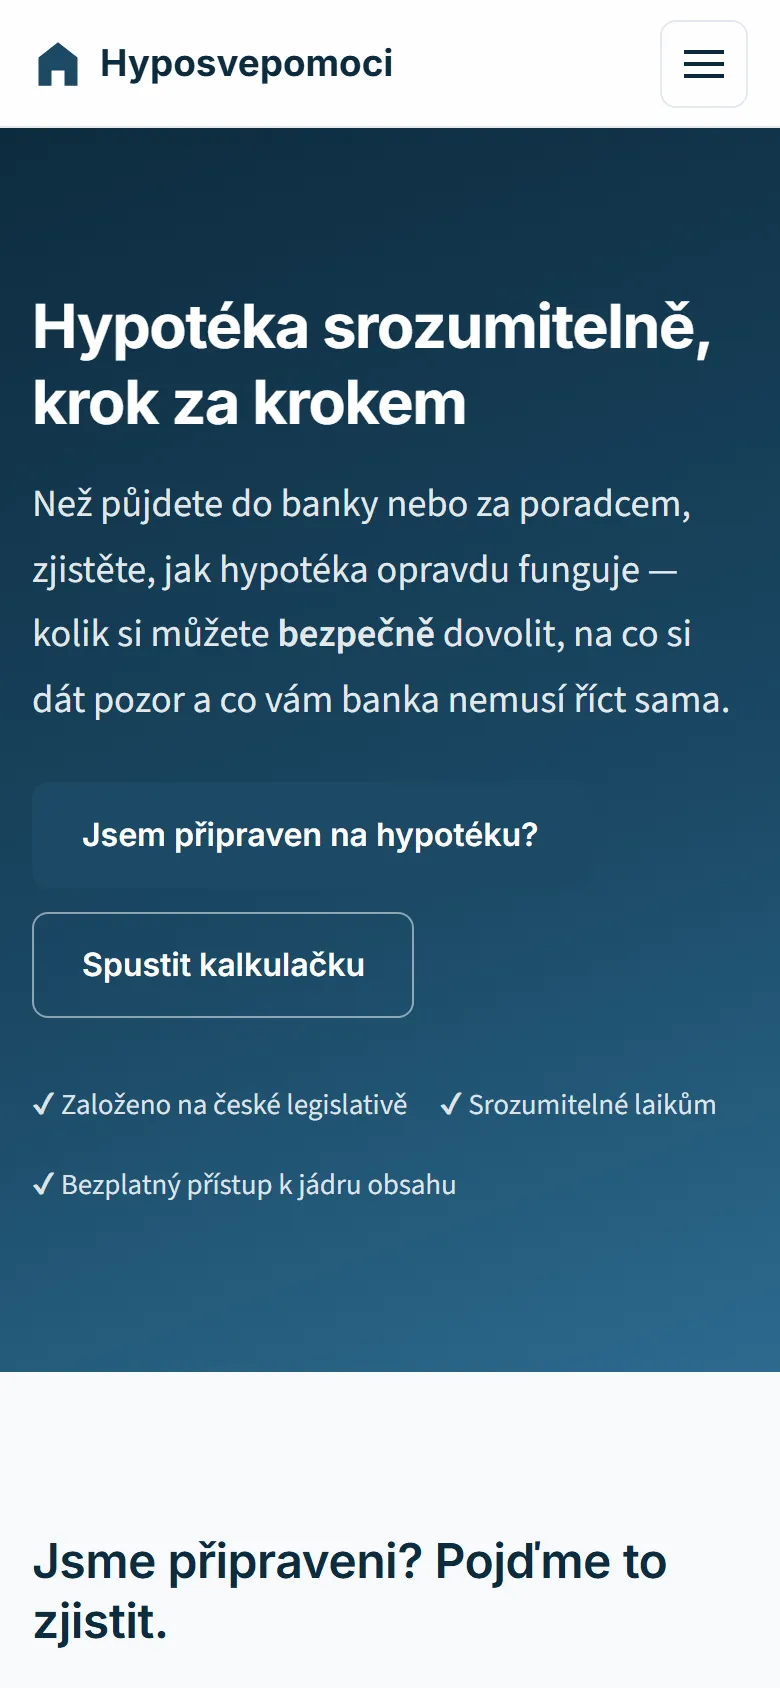
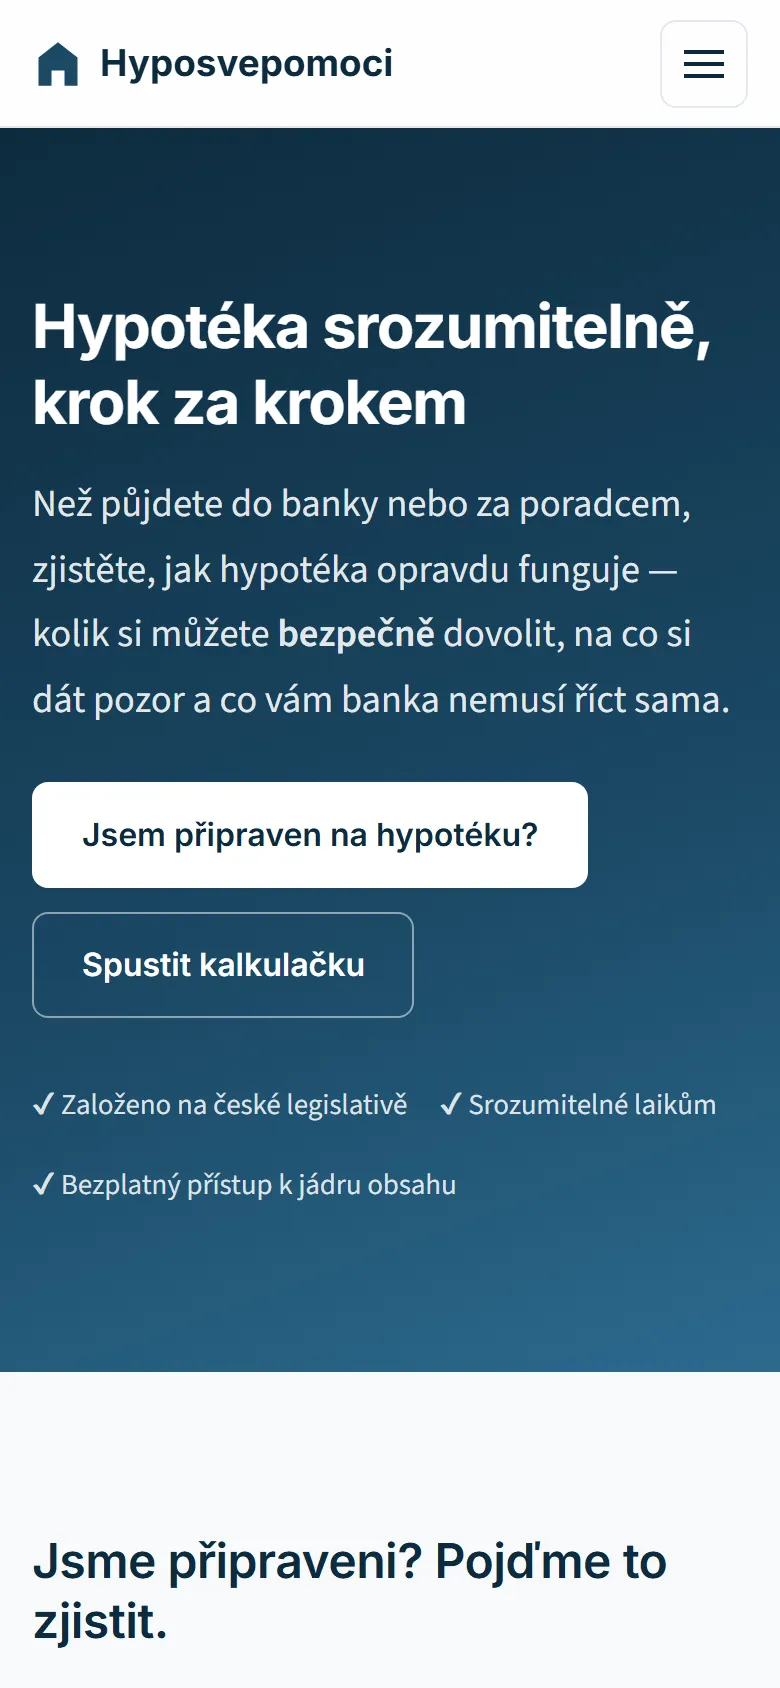
Hero: primární tlačítko viditelné na tmavém pozadí
.btn--primary má stejnou barvu jako pozadí hero sekce, tlačítko
„Jsem připraven na hypotéku?“ splývalo. V hero je teď bílé s tmavým
textem. Screenshoty v README nahrazeny.

Claude-Session: https://claude.ai/code/session_01BafU8YcDbNMQFHYXNwyru2

Changed region(s): [[0.0308, 0.4621, 0.7692, 0.5237]]

diff --git a/css/sections.css b/css/sections.css
@@ -44,6 +44,9 @@
 .hero__cta { display: flex; flex-wrap: wrap; gap: var(--sp-3); margin-top: var(--sp-6); }
 .hero .btn--ghost { color: #fff; border-color: rgba(255, 255, 255, 0.5); }
 .hero .btn--ghost:hover { background: rgba(255, 255, 255, 0.12); }
+/* Primární tlačítko by na tmavém hero splývalo s pozadím (stejná barva) → světlá varianta */
+.hero .btn--primary { background: #fff; color: var(--color-primary-dark); }
+.hero .btn--primary:hover { background: var(--color-secondary-light); color: var(--color-primary-dark); }
 .hero__trust { display: flex; flex-wrap: wrap; gap: var(--sp-4); margin-top: var(--sp-8); font-size: 0.9rem; color: rgba(255, 255, 255, 0.85); }
 .hero__trust span { display: inline-flex; align-items: center; gap: var(--sp-2); }
 
